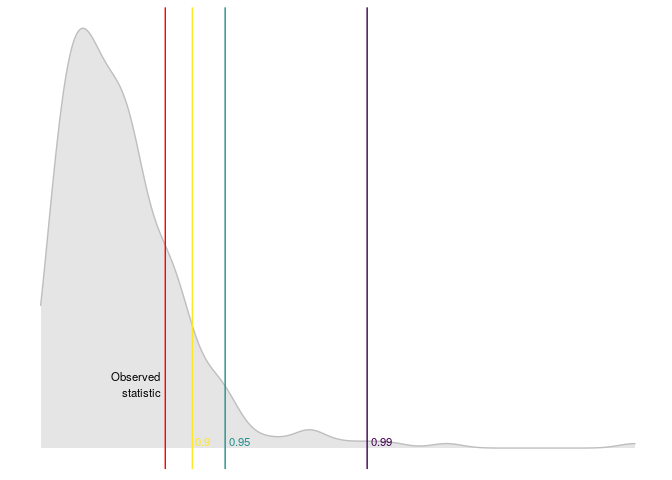
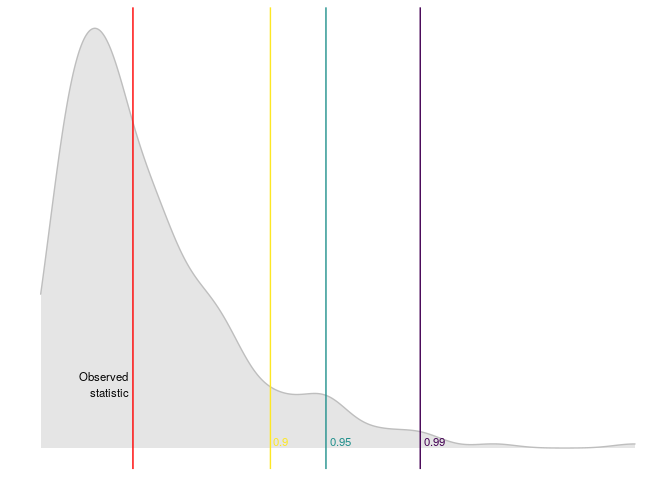
renaming package

Changed region(s): [[0.1875, 0.0312, 0.7812, 0.9688], [0.0625, 0.0625, 0.1875, 0.4688], [0.125, 0.75, 0.25, 0.8438]]

diff --git a/README.md b/README.md
@@ -1,18 +1,18 @@
 
 <!-- README.md is generated from README.Rmd. Please edit that file -->
 
-# linearspectestr
+# lineartestr
 
 <!-- badges: start -->
 
-![R-CMD-check](https://github.com/FedericoGarza/linearspectestr/workflows/R-CMD-check/badge.svg)
-[![Maintenance](https://img.shields.io/badge/Maintained%3F-yes-green.svg)](https://GitHub.com/FedericoGarza/linearspectestr/commits)
+![R-CMD-check](https://github.com/FedericoGarza/lineartestr/workflows/R-CMD-check/badge.svg)
+[![Maintenance](https://img.shields.io/badge/Maintained%3F-yes-green.svg)](https://GitHub.com/FedericoGarza/lineartestr/commits)
 [![MIT
 license](https://img.shields.io/badge/License-MIT-blue.svg)](https://lbesson.mit-license.org/)
 
 <!-- badges: end -->
 
-The goal of `linearspectestr` is to contrast the linear hypothesis of a
+The goal of `lineartestr` is to contrast the linear hypothesis of a
 model:
 
 ![formula](man/figures/CodeCogsEqn.gif)
@@ -22,18 +22,18 @@ Ramsey RESET test is implemented.
 
 ## Installation
 
-You can install (soon) the released version of `linearspectestr` from
+You can install (soon) the released version of `lineartestr` from
 [CRAN](https://CRAN.R-project.org) with:
 
 ``` r
-install.packages("linearspectestr")
+install.packages("lineartestr")
 ```
 
 And the development version from [GitHub](https://github.com/) with:
 
 ``` r
 # install.packages("devtools")
-devtools::install_github("FedericoGarza/linearspectestr")
+devtools::install_github("FedericoGarza/lineartestr")
 ```
 
 ## Examples
@@ -41,7 +41,7 @@ devtools::install_github("FedericoGarza/linearspectestr")
 ### Simplest linear models using `lm` function
 
 ``` r
-library(linearspectestr)
+library(lineartestr)
 
 x <- 1:100
 y <- 1:100
@@ -58,13 +58,13 @@ dplyr::glimpse(dl_test$test)
 #> $ name_distribution <chr> "rnorm"
 #> $ name_statistic    <chr> "cvm_value"
 #> $ statistic         <dbl> 7.562182e-29
-#> $ p_value           <dbl> 0.4133333
-#> $ quantile_90       <dbl> 2.437899e-28
-#> $ quantile_95       <dbl> 3.943113e-28
-#> $ quantile_99       <dbl> 7.069412e-28
+#> $ p_value           <dbl> 0.4666667
+#> $ quantile_90       <dbl> 3.2413e-28
+#> $ quantile_95       <dbl> 4.136152e-28
+#> $ quantile_99       <dbl> 6.359165e-28
 ```
 
-Also `linearspectestr` can plot the results
+Also `lineartestr` can plot the results
 
 ``` r
 plot_dl_test(dl_test)
@@ -75,7 +75,7 @@ plot_dl_test(dl_test)
 #### Run in **parallel**\!
 
 ``` r
-library(linearspectestr)
+library(lineartestr)
 x_p <- 1:1e5
 y_p <- 1:1e5
 
@@ -91,16 +91,16 @@ dplyr::glimpse(dl_test_p$test)
 #> $ name_distribution <chr> "rnorm"
 #> $ name_statistic    <chr> "cvm_value"
 #> $ statistic         <dbl> 6.324343e-21
-#> $ p_value           <dbl> 0.3433333
-#> $ quantile_90       <dbl> 1.72606e-20
-#> $ quantile_95       <dbl> 2.523203e-20
-#> $ quantile_99       <dbl> 3.641144e-20
+#> $ p_value           <dbl> 0.3133333
+#> $ quantile_90       <dbl> 1.59876e-20
+#> $ quantile_95       <dbl> 2.488889e-20
+#> $ quantile_99       <dbl> 3.662429e-20
 ```
 
 #### *RESET* test can also be used to test the linear hypothesis
 
 ``` r
-library(linearspectestr)
+library(lineartestr)
 
 x <- 1:100 + rnorm(100)
 y <- 1:100
@@ -114,8 +114,8 @@ r_test <- reset_test(lm_model)
 dplyr::glimpse(r_test)
 #> Observations: 1
 #> Variables: 6
-#> $ statistic   <dbl> 0.1608255
-#> $ p_value     <dbl> 0.9227354
+#> $ statistic   <dbl> 3.799902
+#> $ p_value     <dbl> 0.149576
 #> $ df          <int> 2
 #> $ quantile_90 <dbl> 4.60517
 #> $ quantile_95 <dbl> 5.991465
@@ -134,7 +134,7 @@ plot_reset_test(r_test)
 ### Linear fixed effects with [`lfe`](https://cran.r-project.org/web/packages/lfe/lfe.pdf)
 
 ``` r
-library(linearspectestr)
+library(lineartestr)
 library(dplyr)
 #> 
 #> Attaching package: 'dplyr'
@@ -174,7 +174,7 @@ dominguez_lobato_test(est, n_cores = 7) %>%
 ### ARMA models
 
 ``` r
-library(linearspectestr)
+library(lineartestr)
 library(dplyr)
 
 x <- rnorm(100)**3
@@ -203,4 +203,3 @@ dominguez_lobato_test(arma_model) %>%
     testing with estimated
     variables.](https://www.tandfonline.com/doi/citedby/10.1080/07474938.2019.1687116?)
     Econometric Reviews.
-  -
